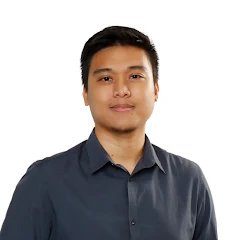
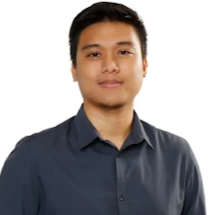
Update

Changed region(s): [[0.0, 0.0, 0.9767, 1.0], [0.1674, 0.9488, 0.2233, 1.0]]

diff --git a/index.html b/index.html
@@ -265,7 +265,8 @@
 
         <!-- <hr class="sidebar-spacer"> -->
 
-        <hr class="sidebar-spacer">
+        <hr class="credit-spacer">
+
         <div class="team">
           <div class="dev-1">
             <div class="profile-image">
@@ -279,6 +280,9 @@
                 <a href="mailto:wyeth.sy@aboitiz.com" target="_blank" rel="noopener noreferrer">
                   <i class="fa-solid fa-envelope"></i>
                 </a>
+                <a href="https://www.linkedin.com/in/wyethsy/" target="_blank" rel="noopener noreferrer">
+                  <i class="fa-brands fa-linkedin"></i>
+                </a>
               </div>
             </div>
           </div>
@@ -290,10 +294,12 @@
             <div class="profile-details">
               <p style="font-weight: 500;" class="name">David Aboitiz</p>
               <p class="designation">VP - ARI</p>
-
               <div class="social-buttons">
                 <a href="mailto:david.aboitiz@aboitiz.com" target="_blank" rel="noopener noreferrer">
                   <i class="fa-solid fa-envelope"></i>
+                </a>
+                <a href="https://www.linkedin.com/in/daboitiz/" target="_blank" rel="noopener noreferrer">
+                  <i class="fa-brands fa-linkedin"></i>
                 </a>
               </div>
             </div>
@@ -1060,11 +1066,11 @@
                   </td>
                 </tr>
                 <tr>
-                  <td><label for="purchase_price">Purchase Price
-                      (Net/sqm):</label></td>
-                  <td><input type="number" id="purchase_price" name="purchase_price" step="any" class="form-control">
-                  </td>
+                  <td><label for="purchase_price">Purchase Price (Net/sqm):</label></td>
+                  <td><input type="number" id="purchase_price" name="purchase_price" step="any" class="form-control"
+                      placeholder="150" oninput="updateInputColor(this)"></td>
                 </tr>
+
                 <tr>
                   <td><label for="total_area">Total Area in Ha:</label></td>
                   <td><input type="number" id="total_area" name="total_area" step="any" class="form-control"></td>
@@ -1632,6 +1638,16 @@
 
 
     //HLA Calculator--------------------------------------------------------------------------------------------------
+    function updateInputColor(input) {
+      if (input.value === '') {
+        input.classList.remove('user-input');
+      } else {
+        input.classList.add('user-input');
+      }
+    }
+
+
+
     function calculate() {
       var ghi = parseFloat(document.getElementById("ghi").value);
       var slope = parseFloat(document.getElementById("slope").value);
@@ -3601,7 +3617,7 @@
                 parseGeoraster(arrayBuffer).then(georaster => {
                   const meanss = geoblaze.mean(georaster, coordinates);
                   const mn = Number(meanss).toFixed(2);
-
+                  // var ghiInput = document.getElementById('ghi');
                   var statisticsDiv = document.getElementById('GHIstatisticss');
 
                   if (mn < 1700) {
@@ -3816,6 +3832,12 @@
                       "With Potential Overlap. Contact the Owner/Broker/LGU/NCIP to confirm. Overlap at ~" +
                       mn + "%";
                     fontColor = "red";
+                  } else if (mn > 0) {
+
+                    notes =
+                      "With Potential Overlap. Contact the Owner/Broker/LGU/NCIP to confirm. Overlap at ~" +
+                      mn + "%";
+                    fontColor = "orange ";
                   } else {
 
                     notes = "No potential overlap.";
@@ -3849,12 +3871,16 @@
                   let notes;
                   let fontColor;
 
-                  if (mn > 0) {
-
+                  if (mn > 20) {
                     notes =
                       "With Potential Overlap. Contact the Owner/Broker/LGU/NIA to confirm. Overlap at ~" +
                       mn + "%";
                     fontColor = "red";
+                  } else if (mn > 0) {
+                    notes =
+                      "With Potential Overlap. Contact the Owner/Broker/LGU/NIA to confirm. Overlap at ~" +
+                      mn + "%";
+                    fontColor = "orange";
                   } else {
 
                     notes = "No potential overlap.";
@@ -3885,12 +3911,17 @@
                   let notes;
                   let fontColor;
 
-                  if (mn > 0) {
+                  if (mn > 20) {
 
                     notes =
                       "With Potential Overlap. Contact the Owner/Broker/LGU/DENR to confirm. Overlap at ~" +
                       mn + "%";
                     fontColor = "red";
+                  } else if (mn > 0) {
+                    notes =
+                      "With Potential Overlap. Contact the Owner/Broker/LGU/DENR to confirm. Overlap at ~" +
+                      mn + "%";
+                    fontColor = "orange";
                   } else {
 
                     notes = "No potential overlap.";
@@ -3922,11 +3953,15 @@
                   let notes;
                   let fontColor;
 
-                  if (mn > 0) {
+                  if (mn > 20) {
 
                     notes =
                       "With Potential Overlap. Check the maps or contact PHILVOCS to confirm.";
                     fontColor = "red";
+                  } else if (mn > 0) {
+                    notes =
+                      "With Potential Overlap. Check the maps or contact PHILVOCS to confirm.";
+                    fontColor = "orange";
                   } else {
 
                     notes = "No potential overlap.";
@@ -3960,13 +3995,17 @@
                   const mn = (Number(meanss) * 100).toFixed(2);
                   let notes;
                   let fontColor;
-
-                  if (mn > 0) {
-
+                  if (mn > 20) {
                     notes =
                       "Flood Hazard: With Potential Overlap. Contact the owner/broker/LGU to confirm. Overlap at ~" +
                       mn + "%";
                     fontColor = "red";
+                  } else if (mn > 0) {
+
+                    notes =
+                      "Flood Hazard: With Potential Overlap. Contact the owner/broker/LGU to confirm. Overlap at ~" +
+                      mn + "%";
+                    fontColor = "orange";
                   } else {
 
                     notes =
@@ -3992,31 +4031,30 @@
             var url_to_geotiff_LqfBi_file =
               "https://czrxstrd4.github.io/avemn/Lqf.tif";
 
-
             fetch(url_to_geotiff_LqfBi_file)
               .then(response => response.arrayBuffer())
               .then(arrayBuffer => {
                 parseGeoraster(arrayBuffer).then(georaster => {
-
-                  const meanss = geoblaze.mean(georaster,
-                    coordinates);
+                  const meanss = geoblaze.mean(georaster, coordinates);
                   const mn = (Number(meanss) * 100).toFixed(2);
                   let notes;
                   let fontColor;
 
-                  if (mn > 0) {
-
+                  if (mn > 20) {
                     notes =
                       "Liquefaction: With Potential Overlap. Contact the owner/broker/LGU/Philvocs to confirm. Overlap at ~" +
                       mn + "%";
                     fontColor = "red";
+                  } else if (mn > 0) {
+                    notes =
+                      "Liquefaction: With Potential Overlap. Contact the owner/broker/LGU/Philvocs to confirm. Overlap at ~" +
+                      mn + "%";
+                    fontColor = "orange";
                   } else {
-
                     notes =
                       "Liquefaction: No potential overlap.";
                     fontColor = "green";
                   }
-
                   document.getElementById("LqfBistatisticss")
                     .innerHTML = notes;
                   document.getElementById("LqfBistatisticss")
@@ -4890,8 +4928,6 @@
 
                     // Assign custom labels based on the actual labels
 
-
-
                     const customLabels = Object.keys(histogramData[0]).map(
                       key => {
                         if (key === "0") {
@@ -5002,22 +5038,6 @@
         }
       ];
 
-      // document.getElementById('fetchButton').addEventListener('click', function () {
-      //   var index = 0;
-
-      //   function executeNext() {
-      //     if (index < codeBlocks.length) {
-      //       var codeBlock = codeBlocks[index];
-      //       codeBlock.code(); // Execute the code block
-
-      //       index++;
-      //       setTimeout(executeNext, codeBlock
-      //         .delay); // Delay before executing the next code block
-      //     }
-      //   }
-
-      //   executeNext();
-      // });
       var fetchButton = document.getElementById('fetchButton');
 
       fetchButton.addEventListener('click', function () {
@@ -5046,28 +5066,6 @@
       });
 
     }
-
-
-    // Read the local JSON file
-    // fetch('lgu.json')
-    //   .then(response => response.json())
-    //   .then(data => {
-    //     const tableBody = document.querySelector('#lgu-table tbody');
-    //     data.forEach(rowData => {
-    //       const row = document.createElement('tr');
-    //       row.innerHTML = `
-    //         <td>${rowData.region}</td>
-    //         <td>${rowData.province}</td>
-    //         <td>${rowData.citymun}</td>
-    //         <td>${rowData.barangay}</td>
-    //         <td>${rowData.position}</td>
-    //         <td>${rowData.name}</td>
-    //         <td>${rowData.contact}</td>
-    //       `;
-    //       tableBody.appendChild(row);
-    //     });
-    //   })
-    //   .catch(error => console.error('Error reading JSON file:', error));
   </script>
 </body>
 

diff --git a/css/style.css b/css/style.css
@@ -59,6 +59,16 @@ input.transparent-input {
   /* Firefox */
 }
 
+#purchase_price::placeholder {
+  color: #918b8b !important;
+}
+
+.user-input {
+  color: black;
+}
+
+
+
 .navbar {
   display: flex;
   align-items: center;
@@ -151,6 +161,13 @@ align-items: center;
 .form-control {
   width: 350px;
 }
+
+input[type="number"]::-webkit-inner-spin-button,
+input[type="number"]::-webkit-outer-spin-button {
+  -webkit-appearance: none;
+  margin: 0;
+}
+
 
 .btn-primary {
   display: flex;
@@ -799,13 +816,13 @@ table tr th {
   display: flex;
   align-items: center;
   justify-content: center;
-  gap: 20px;
+  /* gap: 20px; */
 }
 
 .team {
   gap: 50px;
+  margin-top: 20px;
 }
-
 
 .dev-1,
 .dev-2 {
@@ -813,22 +830,36 @@ width: 195px;
 }
 
 
+
 .profile-image {
+  position: relative;
   display: flex;
   justify-content: center;
   align-items: center;
-  width: 70px;
-  height: 70px;
-  border-radius: 50%;
+  width: 80px;
+  height: 80px;
   overflow: hidden;
   margin: auto;
   margin-bottom: 10px;
 }
 
+/* .badge {
+  position: absolute;
+  top: 55px;
+  left: 43px;
+  z-index: 1;
+  width: 40px;
+  height: auto;
+  object-fit: cover;
+  border-radius: 50%;
+} */
+
+
 .profile-image img {
   width: 100%;
   height: 100%;
   object-fit: cover;
+  border-radius: 50%;
 }
 
 .profile-details {
@@ -836,10 +867,11 @@ width: 195px;
 }
 
 .social-buttons {
-  margin-top: 18px;
+  /* margin-top: 18px; */
   display: flex;
   justify-content: center;
   align-items: center;
+  gap: 3px;
 }
 
 .social-buttons a {
@@ -848,9 +880,15 @@ width: 195px;
   align-items: center;
   width: 40px;
   height: 40px;
-  margin: 0 10px;
-  font-size: 18px;
+  font-size: 16px;
+
 }
+.credit-spacer {
+  height: 3px; /* Set the height */
+  width: 70%; /* Set the width */
+  margin: 20px auto; /* Set the margin */
+}
+
 
 .name,
 .designation {
@@ -952,3 +990,4 @@ width: 195px;
 .sidebar-search.open {
   left: 55px;
 }
+
